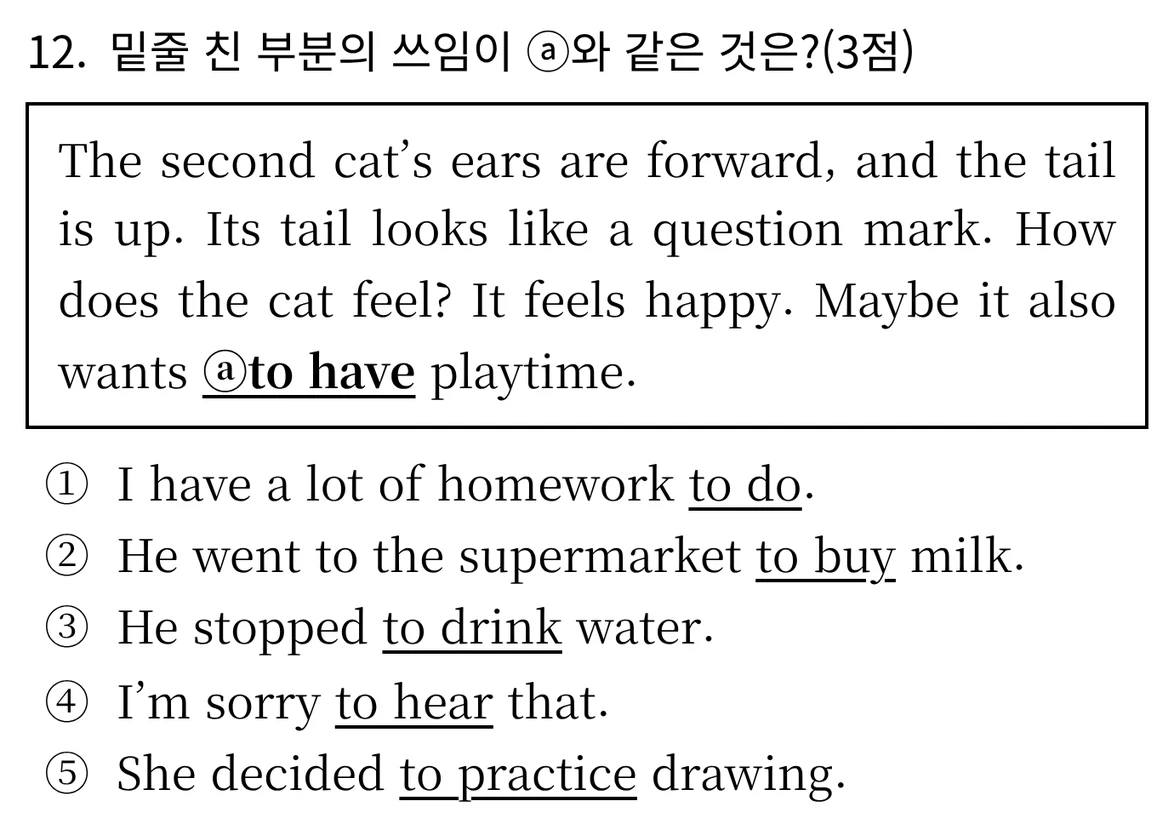
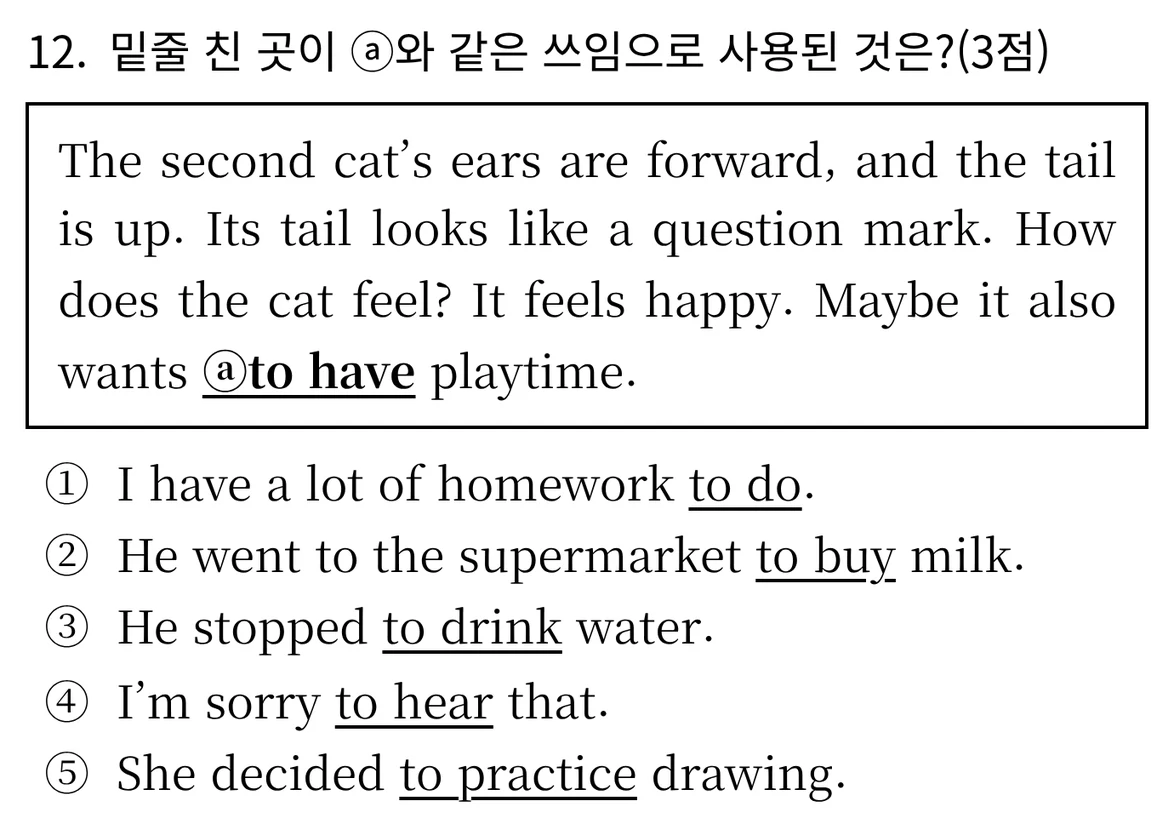
[FIX] 압구정중1 기말 2회 12번 발문 통일 + 홈 공지에 압구정중1 기말 모의고사 7회 업로드 (#1164)
- 2회 12번 발문을 다른 회와 같은 「밑줄 친 곳이 ⓐ와 같은 쓰임으로 사용된 것은?」으로 맞춤
  (r02/q12.webp 다시 만듦, V1128로 해설 첫 줄 UPDATE, 정답·배점 그대로)
- 홈 공지 맨 앞에 「11월 21일(토) 압구정중1 기말 모의고사 7회 업로드」(학교 페이지 링크)
- 테스트: 홈 공지 계약 테스트, MySQL 2회 12번 해설·정답·배점 테스트
- 문서: DOMAIN.md V1128, design/naesintest.md

Claude-Session: https://claude.ai/code/session_0198GJFT7Ny7EbbuoiCoJYeo

Changed region(s): [[0.2147, 0.0303, 0.8893, 0.091]]

diff --git a/src/main/resources/templates/public/landing.html b/src/main/resources/templates/public/landing.html
@@ -246,8 +246,8 @@
       <strong class="home-notice-label">공지사항</strong>
       <div class="home-notice-window">
         <div class="home-notice-track" id="homeNoticeTrack">
-          <div class="home-notice-group"><a href="/csat/2027-english"><time datetime="2026-11-19">11월 19일(목)</time> 2027학년도 수능 영어 해설 업로드</a><a href="https://blog.naver.com/apgujungeduholic/224472061838" target="_blank" rel="noopener"><time datetime="2026-11-10">11월 10일(화)</time> 신구중3 2학기말 적중률 분석 리포트(96.8%)</a><a href="/wiki?grade=1#analysis"><time datetime="2026-11-09">11월 9일(월)</time> 2026 고1 고2 2학기말 대비 실전예상문제 1~5회 업로드</a><a href="#eonbukHitBlog"><time datetime="2026-11-03">11월 3일(화)</time> 언북중3 기출문제 적중률 보고서 업로드(95.2%)</a><a href="/wiki#review"><time datetime="2026-11-01">11월 1일(일)</time> 모의고사 위키 지문 복습 문제 업로드</a><a href="#hitCase"><time datetime="2026-10-31">10월 31일(토)</time> 압구정중3 기출문제 적중률 분석 리포트</a></div>
-          <div class="home-notice-group" aria-hidden="true"><span><time datetime="2026-11-19">11월 19일(목)</time> 2027학년도 수능 영어 해설 업로드</span><span><time datetime="2026-11-10">11월 10일(화)</time> 신구중3 2학기말 적중률 분석 리포트(96.8%)</span><span><time datetime="2026-11-09">11월 9일(월)</time> 2026 고1 고2 2학기말 대비 실전예상문제 1~5회 업로드</span><span><time datetime="2026-11-03">11월 3일(화)</time> 언북중3 기출문제 적중률 보고서 업로드(95.2%)</span><span><time datetime="2026-11-01">11월 1일(일)</time> 모의고사 위키 지문 복습 문제 업로드</span><span><time datetime="2026-10-31">10월 31일(토)</time> 압구정중3 기출문제 적중률 분석 리포트</span></div>
+          <div class="home-notice-group"><a href="/naesintest/school/apgujeong-m1"><time datetime="2026-11-21">11월 21일(토)</time> 압구정중1 기말 모의고사 7회 업로드</a><a href="/csat/2027-english"><time datetime="2026-11-19">11월 19일(목)</time> 2027학년도 수능 영어 해설 업로드</a><a href="https://blog.naver.com/apgujungeduholic/224472061838" target="_blank" rel="noopener"><time datetime="2026-11-10">11월 10일(화)</time> 신구중3 2학기말 적중률 분석 리포트(96.8%)</a><a href="/wiki?grade=1#analysis"><time datetime="2026-11-09">11월 9일(월)</time> 2026 고1 고2 2학기말 대비 실전예상문제 1~5회 업로드</a><a href="#eonbukHitBlog"><time datetime="2026-11-03">11월 3일(화)</time> 언북중3 기출문제 적중률 보고서 업로드(95.2%)</a><a href="/wiki#review"><time datetime="2026-11-01">11월 1일(일)</time> 모의고사 위키 지문 복습 문제 업로드</a><a href="#hitCase"><time datetime="2026-10-31">10월 31일(토)</time> 압구정중3 기출문제 적중률 분석 리포트</a></div>
+          <div class="home-notice-group" aria-hidden="true"><span><time datetime="2026-11-21">11월 21일(토)</time> 압구정중1 기말 모의고사 7회 업로드</span><span><time datetime="2026-11-19">11월 19일(목)</time> 2027학년도 수능 영어 해설 업로드</span><span><time datetime="2026-11-10">11월 10일(화)</time> 신구중3 2학기말 적중률 분석 리포트(96.8%)</span><span><time datetime="2026-11-09">11월 9일(월)</time> 2026 고1 고2 2학기말 대비 실전예상문제 1~5회 업로드</span><span><time datetime="2026-11-03">11월 3일(화)</time> 언북중3 기출문제 적중률 보고서 업로드(95.2%)</span><span><time datetime="2026-11-01">11월 1일(일)</time> 모의고사 위키 지문 복습 문제 업로드</span><span><time datetime="2026-10-31">10월 31일(토)</time> 압구정중3 기출문제 적중률 분석 리포트</span></div>
         </div>
       </div>
       <button id="homeNoticePause" type="button" aria-label="공지 흐름 일시정지" aria-pressed="false">Ⅱ</button>

diff --git a/src/test/java/f2r/tutor_solution/private_tutor_solution_back/template/LandingEdunovaTemplateContractTest.java b/src/test/java/f2r/tutor_solution/private_tutor_solution_back/template/LandingEdunovaTemplateContractTest.java
@@ -76,6 +76,21 @@ class LandingEdunovaTemplateContractTest {
   }
 
   @Test
+  @DisplayName("given 압구정중1 기말 모의고사 7회 업로드 when 홈을 렌더하면 then 공지 맨 앞에 11월 21일 공지가 학교 페이지 링크로 보인다")
+  void givenApgujeongM1Upload_whenRendered_thenNoticeLeadsWithSchoolPageLink() {
+    // given / when
+    String html = render();
+    int track = html.indexOf("id=\"homeNoticeTrack\"");
+    int notice = html.indexOf("<a href=\"/naesintest/school/apgujeong-m1\"><time datetime=\"2026-11-21\">11월 21일(토)</time> 압구정중1 기말 모의고사 7회 업로드</a>");
+    int previous = html.indexOf("<a href=\"/csat/2027-english\"><time datetime=\"2026-11-19\">");
+    // then
+    assertThat(track).isPositive();
+    assertThat(notice).isGreaterThan(track);
+    assertThat(previous).isGreaterThan(notice);
+    assertThat(html).contains("<span><time datetime=\"2026-11-21\">11월 21일(토)</time> 압구정중1 기말 모의고사 7회 업로드</span>");
+  }
+
+  @Test
   @DisplayName("given 2026-11-21 AI Coordinator 개편 순서 when 렌더하면 then Coordinator→하는 일→⓪대시보드→배너·영상→①디지털 기말내신→실증 근거(적중 사례)→②입시상담 AI→③학습 콘텐츠→④부정행위 방지→맞춤문제·이용 안내(한곳)→다른 서비스(AI AGENT→전자책→게임→차트)이고 빈 칸은 솔직하게 표시한다")
   void givenContentPriority_whenRendered_thenApprovedSinglePageOrderAndEmptySlotsAreHonest() {
     String html = render();

diff --git a/src/test/java/f2r/tutor_solution/private_tutor_solution_back/domain/testprep/controller/TestPrepFlowMySqlIntegrationTest.java b/src/test/java/f2r/tutor_solution/private_tutor_solution_back/domain/testprep/controller/TestPrepFlowMySqlIntegrationTest.java
@@ -437,6 +437,22 @@ class TestPrepFlowMySqlIntegrationTest {
   }
 
   @Test
+  @DisplayName("given 압구정중1 2회 12번(V1128), when 해설을 읽으면 then 발문이 다른 회와 같은 「밑줄 친 곳이 ⓐ와 같은 쓰임으로 사용된 것은?」이고 정답·배점은 그대로다")
+  void apgujeongM1Round2Q12_stemMatchesOtherRounds() {
+    // given
+    String sql = "SELECT q.explanation, q.answer_key, q.points FROM tp_questions q JOIN tp_exams e ON e.exam_id = q.exam_id"
+        + " WHERE e.exam_code = 'TP-NAESIN-APM1-2602-R02' AND q.order_no = 12";
+    // when
+    Map<String, Object> row = jdbc.queryForMap(sql);
+    // then
+    assertThat((String) row.get("explanation"))
+        .startsWith("정답 ⑤ · 밑줄 친 곳이 ⓐ와 같은 쓰임으로 사용된 것은? (3점)")
+        .doesNotContain("밑줄 친 부분의 쓰임이");
+    assertThat(row.get("answer_key")).isEqualTo("E");
+    assertThat(((Number) row.get("points")).intValue()).isEqualTo(3);
+  }
+
+  @Test
   @DisplayName("given 신구중2 1회, when 모두 고르기 문항을 순서를 바꿔 다 맞히고 한 문항은 일부만 고르면 그 문항만 틀리고 배점이 빠진다")
   void singuRound1_multiChoiceScoring() throws Exception {
     // given

diff --git a/docs/DOMAIN.md b/docs/DOMAIN.md
@@ -7,6 +7,7 @@
 - V1120: 신구중 2학년 2026학년도 2학기 기말 대비 F2R 예상문제 Lesson 7 1~5회·Lesson 8 6~10회. `tp_exams` 10행(`TP-NAESIN-SGM2-2602-R01`~`R10`) + `tp_questions` 400행(회당 40문항·100점). "모두 고르면" 문항은 `task_type='NAESIN_MC5_MULTI'`, `answer_key`는 `B,D`처럼 쉼표로 잇는다. 그림은 `static/naesin/singu-m2-2026-2/rNN/`.
 - V1121: 신구중 2학년 2학기 기말 대비 F2R 예상문제 11회(Lesson 7·8 종합 Final). `tp_exams` 1행(`TP-NAESIN-SGM2-2602-R11`) + `tp_questions` 40행(100점, 모두 고르기 5문항). 그림은 `static/naesin/singu-m2-2026-2/r11/`.
 - V1127: 압구정중 1학년 2026학년도 2학기 기말 대비 F2R 예상문제 1~7회. `tp_exams` 7행(`TP-NAESIN-APM1-2602-R01`~`R07`) + `tp_questions` 280행(회당 40문항·100점, 2점×25·3점×10·4점×5, 모두 `NAESIN_MC5`). 그림은 `static/naesin/apgujeong-m1-2026-2/rNN/`.
+- V1128: 압구정중1 2학기 기말 예상문제 2회 12번 해설 첫 줄의 발문을 다른 회와 같은 「밑줄 친 곳이 ⓐ와 같은 쓰임으로 사용된 것은?」으로 고침(문항 그림도 다시 만듦, 정답·배점 그대로). 스키마 변경 없음.
 - V1117: 발음부호 문항 24개 해설 수정(정답 보기를 강세가 아닌 발음부호 오류로 바꿈, 정답·배점 그대로). 스키마 변경 없음.
 - 내신 이용 범위: 일반 회원은 학교마다 1회만, 관리자·재원생(출결 학생부 `easy_students` ENROLLED와 이름 또는 휴대전화가 같은 회원)은 전 회차. 스키마 변경 없음(`NaesinAccessService`).
 - 내신 채점: 섹션 `scaled` = 맞힌 문항 배점 합, `scaleMax` = 배점 합계. 화면 `/naesintest`는 [design/naesintest.md](design/naesintest.md).

diff --git a/docs/design/naesintest.md b/docs/design/naesintest.md
@@ -41,6 +41,7 @@
 - 압구정중 1학년 2학기 기말 대비 F2R 예상문제 7회(`TP-NAESIN-APM1-2602-R01`~`R07`). 회당 40문항·20분·100점(2점×25, 3점×10, 4점×5), 문제지 6쪽.
 - 범위는 교과서(천재 소영순 1학년) Lesson 3~5 본문·대화문과 2학기말 학습지 필기본. 발문·선택지·기호는 출제 교사의 2024 3학년 기말 기출을 따랐다. 압구정중2와 같은 방식으로 문제지를 문항 단위로 잘라 그림으로 올렸다(`static/naesin/apgujeong-m1-2026-2/rNN/qNN.webp`, 공통 지문·대화 `pAA-BB.webp`).
 - 학교 페이지 범위 표시는 `Lesson 3~5`, 회차 목록은 한 표(Lesson 3~5). 홈 학교 고르기 표는 Lesson 3~5 · 7회 · 열기.
+- V1128(2026-11-21): 2회 12번 발문만 「밑줄 친 부분의 쓰임이 ⓐ와 같은 것은?」이어서 다른 회와 같은 「밑줄 친 곳이 ⓐ와 같은 쓰임으로 사용된 것은?」으로 맞췄다(`r02/q12.webp` 다시 만듦, 해설 첫 줄 UPDATE). 홈 공지 맨 앞에 「11월 21일(토) 압구정중1 기말 모의고사 7회 업로드」(학교 페이지 링크)를 넣었다.
 
 ## 모두 고르기 문항(2026-11-18)
 - "~을 모두 고르면?" 문항은 `task_type='NAESIN_MC5_MULTI'`, 정답은 `answer_key='B,D'`처럼 쉼표로 잇는다.
